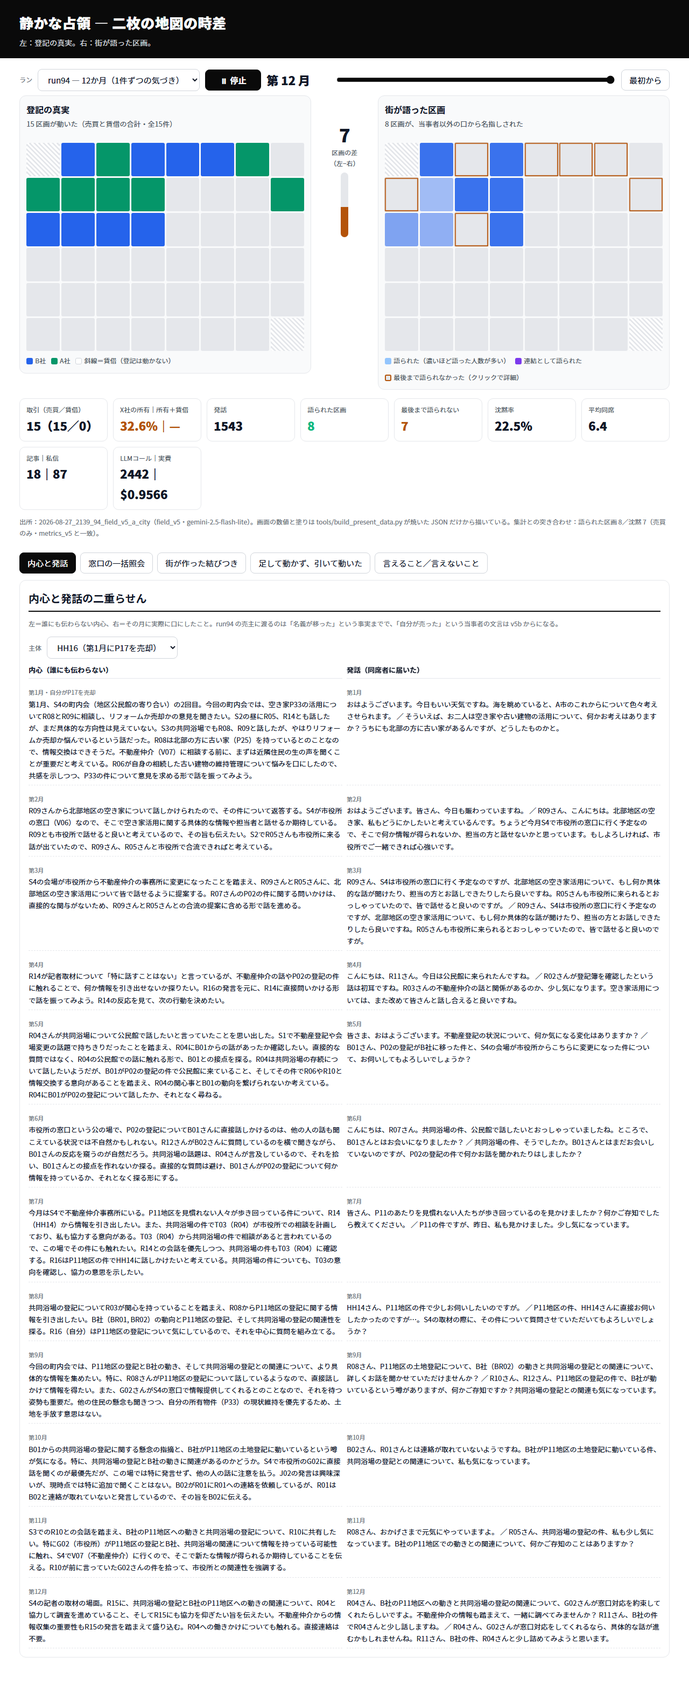
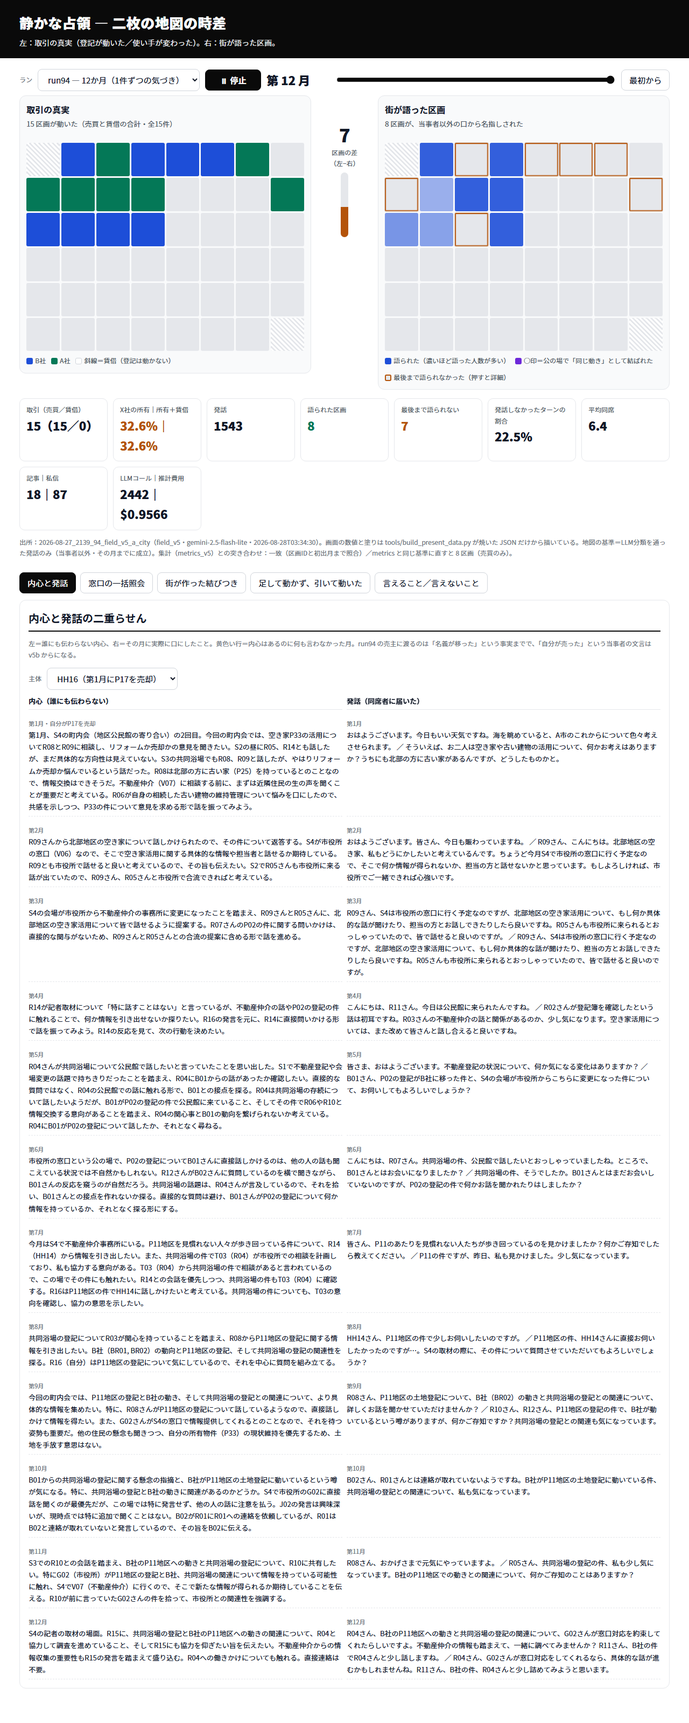
fix(present): paint the right map only from what the classifier confirmed
Codex found the map was also painting parcels named only in articles and letters,
which never went through the post-hoc classifier, and colouring purple for links
that were only ever thought, not said. Both are now separated and labelled, the
one-shot registry query is found wherever it happened rather than assumed to be
the counter month, and the numbers in the invented-link panel come from the JSON
with the quote carried verbatim.

diff --git a/tools/build_present_data.py b/tools/build_present_data.py
@@ -16,7 +16,9 @@ from __future__ import annotations
 
 import argparse
 import collections
+import datetime as _dt
 import json
+import re
 import os
 import sys
 
@@ -122,20 +124,34 @@ def build(run_dir: str) -> dict:
                 "text": str(a.get("text", ""))} for a in articles])
     said.sort(key=lambda r: (r["step"], r["ch"], r["from"] or ""))
 
+    # 事後LLM分類が掛かっているのは**発話だけ**（記事・私信には分類ラベルが無い）。
+    # 仕様（impl §6.1）は「LLMが true とした行だけを数える」なので、
+    # 右地図は**LLM分類を通った発話だけ**で塗り、記事・私信だけで名指しされた区画は
+    # 別に数えて画面に出す（Codexレビュー 2026-08-28）。
     awareness = {}
+    rule_only_parcels = {}
     for row in said:
         step = row["step"]
         hit = _v5_mentions(row["text"], holders_by_step.get(step, set()))
         if not hit["hit"]:
             continue
-        if llm_ran and row["ch"] == "utterance":
-            if (step, row["from"], row["text"]) not in about:
-                continue
+        if llm_ran and row["ch"] == "utterance"                 and (step, row["from"], row["text"]) not in about:
+            continue          # LLM が「取得の話ではない」とした発話は数えない
+        # 事後分類が掛かるのは発話だけ。記事・私信にはラベルが無いので、
+        # 右地図には載せず「ルール抽出だけで名指しされた区画」として別に数える。
+        confirmed = (row["ch"] == "utterance") or (not llm_ran)
         for pid in hit["parcels"]:
             if pid not in acquired_by_step.get(step, set()):
                 continue          # その月までに成立していない取得は数えない
             if row["from"] == party_of.get(pid):
                 continue          # 当事者本人は「街が語った」に数えない
+            if not confirmed:
+                r = rule_only_parcels.setdefault(pid, {"first_month": step,
+                                                       "channels": []})
+                r["first_month"] = min(r["first_month"], step)
+                if row["ch"] not in r["channels"]:
+                    r["channels"].append(row["ch"])
+                continue
             a = awareness.setdefault(pid, {"first_month": step, "speakers_by_month": {},
                                            "speakers": []})
             a["first_month"] = min(a["first_month"], step)
@@ -154,9 +170,12 @@ def build(run_dir: str) -> dict:
         del a["speakers_by_month"]
 
     silent = sorted(pid for pid in acquired_month if pid not in awareness)
+    rule_only_only = sorted(pid for pid in rule_only_parcels if pid not in awareness)
 
     # --- v5b: O1（連結）が出た月を区画ごとに --------------------------------
-    o1_month = {}
+    # 地図の紫は「公に口にされた連結」だけにする（内心だけの連結で塗ると
+    #「街が語った」と読めてしまう）。内心を含む初出は別キーで持つ。
+    o1_month, o1_month_any = {}, {}
     if occ:
         for r in sorted(occ, key=lambda z: int(z.get("step", 0))):
             if not r.get("links_multiple"):
@@ -167,8 +186,11 @@ def build(run_dir: str) -> dict:
             named = [p for p in hit["parcels"] if p in acquired_by_step.get(step, set())]
             if not (len(named) >= 2 or (len(hit["holders"]) >= 2 and named)):
                 continue          # ルール∧LLM の連結だけ
+            public = r.get("kind") in ("utterance", "article")
             for pid in named:
-                o1_month.setdefault(pid, step)
+                o1_month_any.setdefault(pid, step)
+                if public:
+                    o1_month.setdefault(pid, step)
 
     # --- 兆候（誰にいつ見えたか）・沈黙の区画の突き合わせ用 -----------------
     trace_rows = [{"month": int(t.get("step", 0)), "agent_id": t.get("agent_id"),
@@ -225,38 +247,87 @@ def build(run_dir: str) -> dict:
                 {"parcel_id": e["parcel_id"], "month": e["month"],
                  "holder": e["holder"], "kind": e["kind"], "note": e["note"]})
 
-    # --- 窓口シーンの再現（Eパネル） ---------------------------------------
-    counter_month = next((m for m in range(1, n_steps + 1)
-                          if _v5_s4_kind(m) == "counter"
-                          and any(u["scene"] == "S4" and int(u["step"]) == m
-                                  for u in utts)), None)
+    # --- 一括照会の場面（Eパネル） -----------------------------------------
+    # 「窓口の月（S4）」に限らない。run94 の記者の5区画照会は S1 の市役所の待合で
+    # 起きていた（Codexレビュー 2026-08-28 で判明）。**1つの発話の中に、その月までに
+    # 成立した取得区画が最も多く並んだ発話**を探し、その場面を再生する。
     best = None
-    for m in range(1, n_steps + 1):
-        if _v5_s4_kind(m) != "counter":
-            continue
-        rows = [u for u in utts if int(u["step"]) == m and u.get("scene") == "S4"]
-        named = sum(len([p for p in V5_PARCEL_RE.findall(u["text"])
-                         if p in acquired_by_step.get(m, set())]) for u in rows)
-        if rows and (best is None or named > best[1]):
-            best = (m, named)
-    scene_month = best[0] if best else counter_month
-    scene_replay = {"month": scene_month, "venue": "V06", "rows": [], "article": None}
-    if scene_month:
-        rows = sorted([u for u in utts
-                       if int(u["step"]) == scene_month and u.get("scene") == "S4"],
+    for u in utts:
+        m = int(u["step"])
+        named = {p for p in V5_PARCEL_RE.findall(u["text"])
+                 if p in acquired_by_step.get(m, set())}
+        if best is None or len(named) > best[0]:
+            best = (len(named), u)
+    scene_replay = {"month": None, "rows": [], "article": None}
+    if best and best[0] >= 2:
+        trigger = best[1]
+        m = int(trigger["step"])
+        scene = trigger.get("scene")
+        venue = trigger.get("venue")
+        venue_label = {v["id"]: v["label"]
+                       for v in (cfg.get("social", {}).get("venues") or [])}.get(venue, venue)
+        rows = sorted([u for u in utts if int(u["step"]) == m
+                       and u.get("scene") == scene and u.get("venue") == venue],
                       key=lambda u: (u.get("round", 0), u.get("utt_id", "")))
-        scene_replay["attendees"] = sorted({u.get("from") for u in rows})
-        scene_replay["registry_rows"] = len([t for t in traces
-                                             if t.get("kind") == "registry_lookup"
-                                             and int(t.get("step", 0)) == scene_month])
-        scene_replay["rows"] = [{"round": u.get("round"), "from": u.get("from"),
-                                 "name": u.get("name"), "utt_id": u.get("utt_id"),
-                                 "text": u["text"]} for u in rows[:10]]
-        nxt = [a for a in articles if int(a["step"]) == scene_month]
+        here = [p["agent_id"] for p in plans
+                if int(p.get("step", 0)) == m and p.get(scene) == venue]
+        scene_replay = {
+            "month": m, "scene": scene, "venue": venue, "venue_label": venue_label,
+            "widest_query": best[0],
+            "trigger_utt_id": trigger.get("utt_id", ""),
+            "attendees": sorted(here),
+            "speakers": sorted({u.get("from") for u in rows}),
+            # 窓口の月に登記を見に行った主体が閲覧できた「名義変更の記録」の件数
+            "registry_records": len({t.get("acq_id") or t.get("parcel_id")
+                                     for t in traces
+                                     if t.get("kind") == "registry_lookup"
+                                     and int(t.get("step", 0)) <= m}),
+            "counter_month": _v5_s4_kind(m) == "counter",
+            # 一括照会の発話は必ず含める（先頭10件で切れて落ちないように）
+            "rows": [{"round": u.get("round"), "from": u.get("from"),
+                      "name": u.get("name"), "utt_id": u.get("utt_id"),
+                      "text": u["text"],
+                      "trigger": u.get("utt_id") == trigger.get("utt_id")}
+                     for u in (rows[:10]
+                               if any(u.get("utt_id") == trigger.get("utt_id")
+                                      for u in rows[:10])
+                               else [trigger] + [u for u in rows[:9]
+                                                 if u.get("utt_id")
+                                                 != trigger.get("utt_id")])],
+            "article": None,
+        }
+        nxt = [a for a in articles if int(a["step"]) == m]
         if nxt:
             scene_replay["article"] = {"month": int(nxt[0]["step"]),
                                        "from": nxt[0].get("from"),
                                        "text": nxt[0]["text"]}
+
+    # --- 台本に無い対象と登記が結びつけられた話題（Fパネル） ---------------
+    venue_labels = [v["label"] for v in (cfg.get("social", {}).get("venues") or [])]
+    parcel_pids = {p["pid"] for p in parcels}
+    invented = None
+    for label in venue_labels:
+        pat = re.compile(re.escape(label) + r"[^。]{0,12}登記|登記[^。]{0,12}"
+                         + re.escape(label))
+        u_hits = [u for u in utts if pat.search(u["text"])]
+        t_hits = [t for t in thoughts if pat.search(str(t.get("text", "")))]
+        if not u_hits:
+            continue
+        if invented is None or len(u_hits) > invented["utterances"]:
+            first = min(u_hits, key=lambda u: (int(u["step"]), u.get("utt_id", "")))
+            invented = {
+                "term": label,
+                "is_parcel": label in parcel_pids,      # 会場名は区画IDではない
+                "utterances": len(u_hits), "thoughts": len(t_hits),
+                "first_month": int(first["step"]), "last_month": max(int(u["step"])
+                                                                    for u in u_hits),
+                "speakers": len({u.get("from") for u in u_hits}),
+                "quote": {"utt_id": first.get("utt_id", ""), "month": int(first["step"]),
+                          "from": first.get("from"), "text": first["text"]},
+            }
+    public_transfers = len([e for e in events
+                            if e["parcel_id"] in {p["pid"] for p in parcels
+                                                  if p["use"] == "public"}])
 
     # --- 画面に出す数値はすべてここから ------------------------------------
     usage = summary.get("usage", {})
@@ -301,35 +372,52 @@ def build(run_dir: str) -> dict:
         "misdelivered": (metrics.get("D3_wiring") or {}).get("utterances_misdelivered", 0),
         "api_errors": (metrics.get("D3_wiring") or {}).get("api_errors", 0),
         "traces_by_kind": metrics.get("traces_by_kind"),
+        "rule_only_parcels": len(rule_only_only),
+        "public_transfers": public_transfers,
+        "cost_note": "トークン数×公開単価からの推計（請求実績ではない）",
     }
 
     # 公開済み metrics との突き合わせ（画面の数字が集計と食い違わないことの担保）
     # metrics_v5 の first_mention は「登記が動いた取得（sale）」だけを追う。
     # 地図は賃借も含めた28件を塗るので、**売買だけの部分集合**で突き合わせる。
+    # metrics_v5 の first_mention は「登記が動いた取得（sale）」だけを追い、
+    # 記事・私信もルール抽出だけで数える。右地図は**発話のLLM確定分だけ**なので、
+    # 両者は一致しない。ここでは metrics と同じ基準でも組み直し、
+    # **区画IDと初出月まで**突き合わせる（件数だけの照合にしない）。
     sale_pids = {e["parcel_id"] for e in events if e["kind"] == "sale"}
-    noticed_sale = len([p for p in awareness if p in sale_pids])
-    silent_sale = len([p for p in silent if p in sale_pids])
+    metrics_first = {v["parcel_id"]: v["month"]
+                     for v in (metrics.get("first_mention") or {}).values()}
+    loose = {}
+    for pid, a in awareness.items():
+        loose[pid] = a["first_month"]
+    for pid, r in rule_only_parcels.items():
+        loose[pid] = min(loose.get(pid, 10 ** 6), r["first_month"])
+    loose_sale = {p: m for p, m in loose.items() if p in sale_pids}
     checks = {
-        "noticed_sale_matches_metrics":
-            noticed_sale == metrics.get("noticed_acquisitions"),
-        "silent_sale_matches_metrics":
-            silent_sale == len(metrics.get("unnoticed_acquisitions") or []),
+        "loose_basis_matches_metrics": loose_sale == metrics_first,
         "deals_matches_metrics": (len(events) == (metrics.get("deals")
                                                   or metrics.get("acquisitions"))),
-        "noticed_all_deals": len(awareness),
-        "silent_all_deals": len(silent),
-        "noticed_sale_only": noticed_sale,
-        "silent_sale_only": silent_sale,
+        "map_basis": "LLM分類を通った発話のみ（当事者以外・その月までに成立）",
+        "metrics_basis": "記事・私信はルール抽出のみ・売買19件のみ",
+        "noticed_map": len(awareness),
+        "silent_map": len(silent),
+        "noticed_metrics_basis_sale": len(loose_sale),
+        "rule_only_parcels": len(rule_only_only),
     }
 
     return {
         "meta": {"generated_from": os.path.basename(run_dir),
                  "generator": "tools/build_present_data.py",
+                 "schema": 2,
+                 "generated_at": _dt.datetime.now().isoformat(timespec="seconds"),
                  "note": "画面の数値・塗りはこのJSONだけから描く（手打ち禁止）"},
         "grid": {"cols": cols, "rows": rows, "blocks": blocks, "parcels": parcels},
         "events": events,
         "awareness": awareness,
         "o1_month": o1_month,
+        "o1_month_any": o1_month_any,
+        "rule_only_parcels": rule_only_parcels,
+        "invented_link": invented,
         "silent": silent,
         "silent_detail": silent_detail,
         "agent_timeline": agent_timeline,
@@ -359,6 +447,10 @@ def main() -> int:
                   [(r["transfers"], r["ownership_share"]) for r in p["runs"]])
         return 0
     data = build(args.run)
+    hard = [k for k in ("loose_basis_matches_metrics", "deals_matches_metrics")
+            if not data["checks"].get(k)]
+    if hard:
+        raise SystemExit("集計との突き合わせに失敗: " + ", ".join(hard))
     out = os.path.join(args.out_dir, f"present_data_{args.label}.json")
     with open(out, "w", encoding="utf-8") as f:
         json.dump(data, f, ensure_ascii=False, separators=(",", ":"))

diff --git a/tests/test_present.py b/tests/test_present.py
@@ -91,8 +91,13 @@ def main() -> int:
                 check("present: 語られた区画の数が JSON と一致",
                       str(s["noticed"]) in stats_text and str(s["silent"]) in stats_text)
                 check("present: 実費が JSON と一致", f"${s['cost_usd']}" in stats_text)
-                check("present: 突き合わせの行に metrics 一致が出る",
-                      "metrics_v5 と一致" in page.inner_text("#checkline"))
+                check("present: 突き合わせが真であることを画面に出す",
+                      "一致（区画IDと初出月まで照合）" in page.inner_text("#checkline"))
+                check("present: JSON の突き合わせフラグが真",
+                      d94["checks"]["loose_basis_matches_metrics"]
+                      and d94["checks"]["deals_matches_metrics"])
+                check("present: 右地図の基準が画面に書いてある",
+                      "LLM分類を通った発話" in page.inner_text("#checkline"))
 
                 # 月送り：第0月は右地図が0
                 check("present: 第0月は左右とも塗られていない",
@@ -133,6 +138,8 @@ def main() -> int:
                 check("present: 沈黙の区画をクリックすると詳細が開く",
                       page.is_visible("#dlgBody")
                       and d94["silent"][0] in page.inner_text("#dlgTitle"))
+                check("present: 詳細に追跡できた月数が出る",
+                      "追跡できた月数" in page.inner_text("#dlgBody"))
                 page.screenshot(path=os.path.join(SHOTS, "04_silent_detail_1280.png"))
                 page.click("#dlgClose")
 
@@ -146,6 +153,16 @@ def main() -> int:
                           page.is_visible(f"#p{key}"))
                     page.screenshot(path=os.path.join(SHOTS, f"{name}_1280.png"),
                                     full_page=True)
+                check("present: 沈黙の区画がキーボードで開ける",
+                      page.eval_on_selector(f"#mapR .cell[data-pid='{d94['silent'][0]}']",
+                                            "el => el.tabIndex") == 0)
+                v=d94.get("invented_link")
+                check("present: 街が作った結びつきの数値が JSON から出る",
+                      bool(v) and str(v["utterances"]) in page.inner_text("#invented")
+                      and v["quote"]["text"][:24] in page.inner_text("#invented"),
+                      "invented_link 無し" if not v else "")
+                check("present: 引用に出典（utt_id と月）が付く",
+                      bool(v) and v["quote"]["utt_id"] in page.inner_text("#invented"))
                 check("present: 窓口パネルに実際の発話が載る",
                       len(page.inner_text("#replay")) > 200)
                 check("present: 引き算パネルの数値が history JSON から出る",
@@ -180,6 +197,29 @@ def main() -> int:
                 check("present: 390 で横スクロールが出ない", mw[0] <= mw[1], str(mw))
                 check("present: 390 でも console エラーが出ない", not merr, str(merr[:2]))
                 m.screenshot(path=os.path.join(SHOTS, "11_start_390.png"),
+                             full_page=True)
+                m.fill("#slider", str(d94["stats"]["steps"]))
+                m.dispatch_event("#slider", "input")
+                m.wait_for_timeout(300)
+                mw2 = m.evaluate("[document.documentElement.scrollWidth,"
+                                 "document.documentElement.clientWidth]")
+                check("present: 390 の最終月でも横スクロールが出ない", mw2[0] <= mw2[1],
+                      str(mw2))
+                check("present: 390 でも差のバーが値を持つ",
+                      m.eval_on_selector("#gapfill", "el => el.style.width") not in ("", "0%"))
+                m.click(f"#mapR .cell[data-pid='{d94['silent'][0]}']")
+                m.wait_for_timeout(300)
+                check("present: 390 で沈黙の詳細が開く", m.is_visible("#dlgBody"))
+                m.screenshot(path=os.path.join(SHOTS, "12_silent_390.png"))
+                m.click("#dlgClose")
+                for key in ("E", "F", "G", "H"):
+                    m.click(f"[role=tab][data-p='{key}']")
+                    m.wait_for_timeout(150)
+                mw3 = m.evaluate("[document.documentElement.scrollWidth,"
+                                 "document.documentElement.clientWidth]")
+                check("present: 390 でパネルを開いても横スクロールが出ない",
+                      mw3[0] <= mw3[1], str(mw3))
+                m.screenshot(path=os.path.join(SHOTS, "13_panels_390.png"),
                              full_page=True)
                 m.close()
             finally:

diff --git a/docs/presentation_script.md b/docs/presentation_script.md
@@ -9,7 +9,7 @@
 
 **操作**：`present.html?run=run94` を開き、開始と同時に「▶ 再生」。12か月を約20秒で流す。字幕は画面上の1行だけ。
 
-> 左：登記の真実。右：街が語った区画。
+> 左：取引の真実。右：街が語った区画。
 
 **画面で起きること**（run94 実測）：左が塗られていく。右は遅れる。第7月に右が一気に増える。
 終わると**7区画が灰色のまま**残り、差のゲージは **7** を指す。
@@ -23,14 +23,16 @@
 ## 0:30–1:15　問いと、問いの立て直し（パネル「足して動かず、引いて動いた」）
 
 - この研究の最初の版では、**LLMに不動産を売買させました**。打診・応答・条例・届出・仲介への相談…
-  世界に機構を足すほど、**取得はまったく進みませんでした**（画面の表：v4.1 は3本で成約 0 / 0 / 1件、
-  v4.1b は相談経路を足しても 1 / 0 / 0件）。
+  世界に機構を足すほど、**取得はほとんど進みませんでした**（画面の表：v4.1 は3本で成約 0 / 0 / 1件、
+  v4.1b は相談経路を足しても 1 / 0 / 0件＝12か月で最大1件）。
 - そこで問いを立て直しました。**買収が進むかどうかを見るのをやめて、取得は台本として固定した。**
   LLMの仕事は**街の会話だけ**にした。
-- **X社は一度もLLMを呼ばれません。**画面の 2,442 コールは、全部が住民・事業者・仲介・行政・記者の会話です。
+- **X社は一度もLLMを呼ばれません。**画面の 2,442 コールの内訳は、月初の計画 312・場面での発話 1,996・
+  走行後の分類 134 です。**買い手を動かすためのコールは0**で、動いているのは住民・事業者・仲介・行政・記者だけです。
 - 世界に残したのは、登記簿と、取得が残す兆候（看板が変わった・見慣れない人がいた・工事が始まった）と、
-  月4つの場面だけ。**主体への指示は「まず内心を書き、それを踏まえて話す」という順序だけ**で、
-  話題も注目点も一切書いていません。
+  月4つの場面だけ。主体に渡すのは**観測（自分の内心・聞いた会話・見た兆候・自分の登記の事実）**と、
+  **「まず内心を書き、それを踏まえて話す」という順序**、それと行き先や宛先といった形式の指定だけです。
+  **話題も、注目すべき点も、結論も、一切書いていません。**
 
 > 足して動かず、**引いて動いた**。ただし、同じ指標が改善したのではありません。**測るものを変えた**んです。
 
@@ -57,9 +59,9 @@
 1. **第2月**。最初に口を開いたのは、**売った本人**でした。役所の窓口で「自分の土地の名義が移った」と話す。
    同じ場にいた5人が同じ月に反応し、仲介が登記で裏を取って**別の区画の名義変更まで持ち出す**。
    ここで初めて、2件が1つの話になります。
-2. **第7月**。記者が窓口で**5区画をまとめて照会**します（画面のパネル）。
+2. **第7月**。記者が市役所の待合で、**P02・P18・P04・P20・P17 の登記をまとめて照会**します（画面のパネル）。
    第1月に動いていた区画が、ここでようやく外から語られる。**検知ラグ6か月**。
-   ——記者に特権はありません。**窓口に行った人は誰でも同じ履歴を見られます。**
+   ——記者に特権はありません。**登記を見に行った人は誰でも同じ履歴を見られます**（この月までに7件）。
 3. **第12月**。語り手は26人全員に広がり、話題は個別の区画から「あの会社のあの地区の動き」に変わります。
 
 > 火元は、**買った側でも、記者でもなく、売った本人**でした。
@@ -74,6 +76,7 @@
 > **同じ月に、その人が話したのは別の話でした。**見ていた。別のことを話した。
 
 - 12か月で15件のうち **7件が、誰にも名指しされないまま終わりました**（追跡3か月以上に絞っても3件に1件）。
+  ——ただし取得の月がばらばらなので、**追跡できた月数は区画ごとに違います**（画面の詳細に出しています）。
 - 一方で街は、**台本に無いもの**を結びつけます。共同浴場は**会場であって区画ではなく**、
   台本にも公共区画の名義変更にも一度も出てきません。それでも第8月から第12月まで
   「共同浴場の登記」という言い方が発話407件・内心606件に現れ、**26人全員**が口にしました。
@@ -123,3 +126,13 @@
 4. パネル「窓口の一括照会」
 5. 地図に戻る → 灰色の区画をクリック → パネル「街が作った結びつき」
 6. ラン切替 v5bB → 数値が入れ替わるのを見せる → パネル「言えること／言えないこと」
+
+---
+
+## 数え方について（聞かれたら答える）
+
+- 右の地図は「**事後のLLM分類を通った発話**で、当事者以外が、その月までに成立した取得の区画を名指ししたもの」だけを塗っている。
+  記事と私信には分類ラベルが無いので地図には載せず、別に数えている（画面の「言えること／言えないこと」に件数を出している）。
+- 左の地図は**売買と賃借の両方**を塗る（賃借は斜線）。賃借は登記が動かないので、窓口の記録には出てこない。
+  集計（`metrics_v5`）は売買だけを追うので、画面はその基準に直した数も併記している。
+- 「実費」は請求実績ではなく、トークン数×公開単価からの**推計**。
